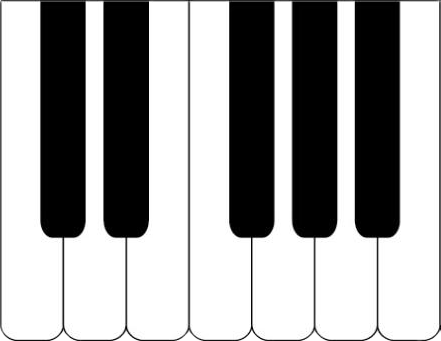
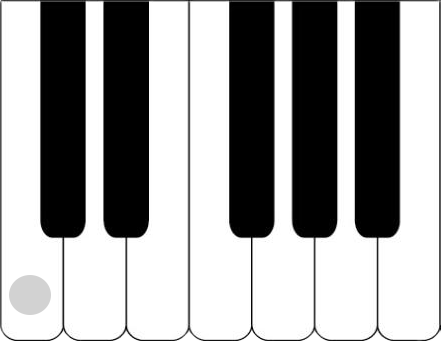
用QgroupBox替换原始Qwidget；添加钢琴演奏可视化效果。

Changed region(s): [[0.0, 0.7918, 0.1179, 0.9384]]

diff --git a/Ins_monitor.py b/Ins_monitor.py
@@ -4,15 +4,21 @@
 author:杨博远
 """
 import os
-
 from PyQt5 import QtCore, QtMultimedia
 from PyQt5.QtCore import Qt, QSize
 from PyQt5.QtGui import QPixmap, QIcon
 from PyQt5.QtWidgets import QWidget, QLabel, QSlider, QHBoxLayout, QVBoxLayout, QPushButton, QGridLayout, \
-    QGraphicsOpacityEffect, QTreeWidget, QFileDialog, QTreeWidgetItem, QHeaderView
+    QGraphicsOpacityEffect, QTreeWidget, QFileDialog, QTreeWidgetItem, QHeaderView, QGroupBox
 
 
 class Ins_monitor(QWidget):
+
+    def playerstate(self,state,pos):
+        if(state==1):
+            self.piano2.setPixmap(self.pianomaplist[pos - 1])
+        elif(state==0):
+            self.piano2.setPixmap(self.piano2map)
+
 
     def __init__(self):
         super().__init__()
@@ -24,14 +30,17 @@ class Ins_monitor(QWidget):
             self.player.setVolume(self.slider1.value())
 
     def piano_player(self, event):
+        #钢琴弹奏模块，待优化
         gx=event.globalPos().x()-self.mapToGlobal(self.piano.pos()).x()+11
         x = event.pos().x()
         y = event.pos().y()
         t1=self.piano.pos().x()
         t2=self.piano2.pos().x()
         t3=self.piano3.pos().x()
+        #高音区域
         if gx>self.piano3.geometry().x():
             pass
+        #中音区域
         elif gx>self.piano2.geometry().x():
             relative_pos = x - self.piano.geometry().x()
             result = int(relative_pos / (self.piano.geometry().width() / 7) + 1.2)
@@ -39,9 +48,11 @@ class Ins_monitor(QWidget):
             content = QtMultimedia.QMediaContent(url)
             if not hasattr(self, 'player'):
                 self.player = QtMultimedia.QMediaPlayer()
+            self.player.stateChanged.connect(lambda: self.playerstate(self.player.state(), result))
             self.player.setMedia(content)
             self.player.setVolume(self.slider1.value())
             self.player.play()
+        #低音区域
         else:
             pass
 
@@ -72,18 +83,19 @@ class Ins_monitor(QWidget):
         self.setGraphicsEffect(op)
 
         # 钢琴按键
+        self.pianomaplist=[QPixmap("./photos/piano1.png"),QPixmap("./photos/piano2.png"),QPixmap("./photos/piano3.png"),QPixmap("./photos/piano4.png"),QPixmap("./photos/piano5.png"),QPixmap("./photos/piano6.png"),QPixmap("./photos/piano7.png")]
         self.piano = QLabel(self)
-        pianomap = QPixmap("./photos/piano1.png")
+        pianomap = QPixmap("./photos/piano.png")
         self.piano.setPixmap(pianomap)
         self.piano.setScaledContents(True)
 
         self.piano2 = QLabel(self)
-        piano2map = QPixmap("./photos/piano1.png")
-        self.piano2.setPixmap(piano2map)
+        self.piano2map = QPixmap("./photos/piano.png")
+        self.piano2.setPixmap(self.piano2map)
         self.piano2.setScaledContents(True)
 
         self.piano3 = QLabel(self)
-        piano3map = QPixmap("./photos/piano1.png")
+        piano3map = QPixmap("./photos/piano.png")
         self.piano3.setPixmap(piano3map)
         self.piano3.setScaledContents(True)
 
@@ -137,31 +149,23 @@ class Ins_monitor(QWidget):
         ins4.setAutoExclusive(True)
         ins4.setObjectName('btn')
 
-        #volume_widget
-        volume_widget=QWidget()
-        volume_name=QLabel('音量调节')
-        volume_name.setObjectName('volume')
+        #volume_groupbox
         glayout1 = QGridLayout()
-        glayout1.addWidget(volume_name, 0, 0)
-        glayout1.addWidget(self.slider1, 1, 0)
-        glayout1.addWidget(slider2, 1, 1)
-        glayout1.addWidget(self.volume1, 2, 0)
-        glayout1.addWidget(volume2, 2, 1)
-        volume_widget.setLayout(glayout1)
-        volume_widget.setObjectName('bg_widget')
+        glayout1.addWidget(self.slider1, 0, 0)
+        glayout1.addWidget(slider2, 0, 1)
+        glayout1.addWidget(self.volume1, 1, 0)
+        glayout1.addWidget(volume2, 1, 1)
+        volume_groupBox = QGroupBox("音量调节")
+        volume_groupBox.setLayout(glayout1)
 
-        #ins_widget
-        ins_widget=QWidget()
-        ins_name=QLabel('乐器选择')
-        ins_name.setObjectName('volume')
+        #ins_groupbox
         glayout2 = QGridLayout()
-        glayout2.addWidget(ins_name,0,0)
-        glayout2.addWidget(ins1, 1, 0)
-        glayout2.addWidget(ins2, 1, 1)
-        glayout2.addWidget(ins3, 2, 0)
-        glayout2.addWidget(ins4, 2, 1)
-        ins_widget.setLayout(glayout2)
-        ins_widget.setObjectName('bg_widget')
+        glayout2.addWidget(ins1, 0, 0)
+        glayout2.addWidget(ins2, 0, 1)
+        glayout2.addWidget(ins3, 1, 0)
+        glayout2.addWidget(ins4, 1, 1)
+        ins_groupBox = QGroupBox("乐器选择")
+        ins_groupBox.setLayout(glayout2)
 
         #文件树
         self.tree = QTreeWidget()
@@ -171,25 +175,24 @@ class Ins_monitor(QWidget):
         # 宽度对内容变化
         self.tree.header().setSectionResizeMode(QHeaderView.ResizeToContents)
 
-        #file_widget
-        file_widget = QWidget()
-        file_name = QLabel('文件操作')
-        file_name.setObjectName('volume')
+        #file_groupbox
         vbox=QVBoxLayout()
-        vbox.addWidget(file_name)
         vbox.addWidget(open_btn)
         vbox.addWidget(save_btn)
         vbox.addWidget(record_btn)
-        file_widget.setLayout(vbox)
-        file_widget.setObjectName('bg_widget')
+        hbox3=QHBoxLayout()
+        hbox3.addLayout(vbox)
+        hbox3.addWidget(self.tree)
+        file_groupBox = QGroupBox("文件操作")
+        file_groupBox.setLayout(hbox3)
 
         #音量，文件操作，乐器选择布局
         hbox = QHBoxLayout()
-        hbox.addWidget(volume_widget)
-        hbox.addWidget(ins_widget)
-        hbox.addWidget(file_widget)
-        hbox.addWidget(self.tree)
-        hbox.addStretch(1)
+        hbox.addWidget(volume_groupBox)
+        hbox.addWidget(ins_groupBox)
+        # hbox.addStretch(1)
+        hbox.addWidget(file_groupBox)
+
 
         #竖直布局
         vbox2 = QVBoxLayout()
